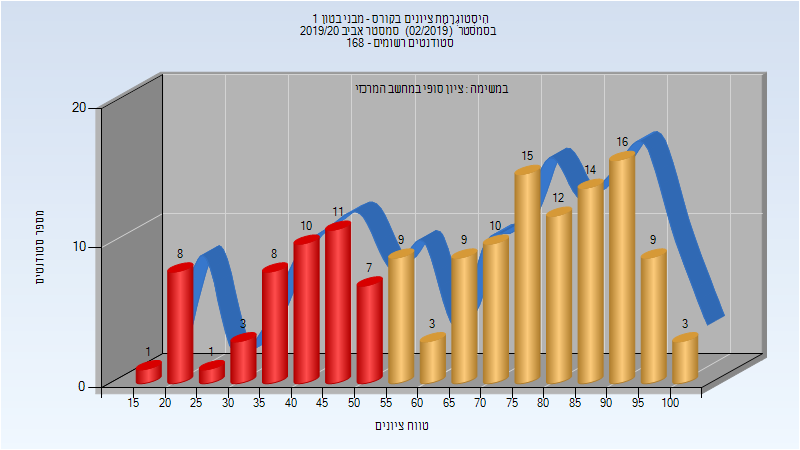
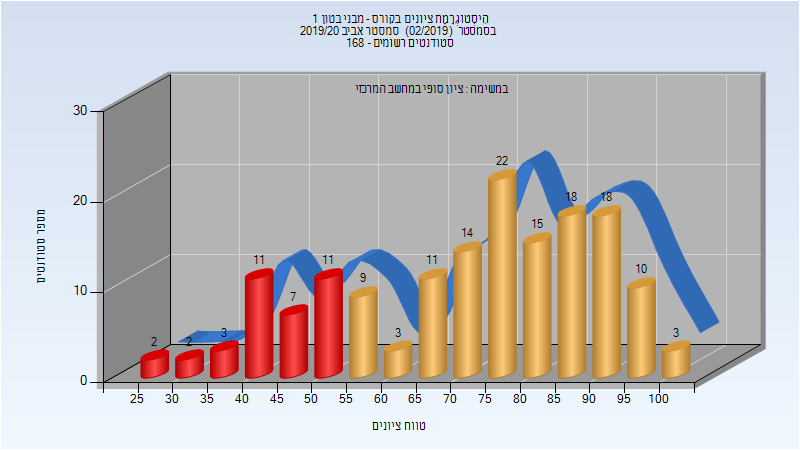
Deploy michael-maltsev/technion-histograms to github.com/michael-maltsev/technion-histograms.git:gh-pages

diff --git a/014005/index.html b/014005/index.html
@@ -530,5 +530,80 @@
 </tr>
 </tbody>
 </table>
+<h2>קיץ 2020</h2>
+<table>
+<thead>
+<tr>
+<th>איש סגל</th>
+<th>תפקיד</th>
+</tr>
+</thead>
+<tbody>
+<tr>
+<td>נחום שי</td>
+<td>מרצה - אחראי מקצוע</td>
+</tr>
+<tr>
+<td>שביט שרית</td>
+<td>סגל מנהלי - עם הרשאות מרצה אחראי</td>
+</tr>
+<tr>
+<td>צאצאשוילי תמי</td>
+<td>סגל מנהלי - עם הרשאות מרצה אחראי</td>
+</tr>
+</tbody>
+</table>
+<h3>סופי מועד א'</h3>
+<p><img src="201903/Final_A.png" alt="201903 Final_A" /></p>
+<table>
+<thead>
+<tr>
+<th>סטודנטים</th>
+<th>עברו/נכשלו</th>
+<th>אחוז עוברים</th>
+<th>ציון מינימלי</th>
+<th>ציון מקסימלי</th>
+<th>ממוצע</th>
+<th>חציון</th>
+</tr>
+</thead>
+<tbody>
+<tr>
+<td>40</td>
+<td>37/3</td>
+<td>92</td>
+<td>37</td>
+<td>100</td>
+<td>84.974</td>
+<td>89.3335</td>
+</tr>
+</tbody>
+</table>
+<h3>סופי</h3>
+<p><img src="201903/Finals.png" alt="201903 Finals" /></p>
+<table>
+<thead>
+<tr>
+<th>סטודנטים</th>
+<th>עברו/נכשלו</th>
+<th>אחוז עוברים</th>
+<th>ציון מינימלי</th>
+<th>ציון מקסימלי</th>
+<th>ממוצע</th>
+<th>חציון</th>
+</tr>
+</thead>
+<tbody>
+<tr>
+<td>40</td>
+<td>37/3</td>
+<td>92</td>
+<td>37</td>
+<td>100</td>
+<td>85.025</td>
+<td>89</td>
+</tr>
+</tbody>
+</table>
   </body>
 </html>

diff --git a/014153/index.html b/014153/index.html
@@ -339,6 +339,32 @@
 </tr>
 </tbody>
 </table>
+<h3>סופי מועד ב'</h3>
+<p><img src="201902/Final_B.png" alt="201902 Final_B" /></p>
+<table>
+<thead>
+<tr>
+<th>סטודנטים</th>
+<th>עברו/נכשלו</th>
+<th>אחוז עוברים</th>
+<th>ציון מינימלי</th>
+<th>ציון מקסימלי</th>
+<th>ממוצע</th>
+<th>חציון</th>
+</tr>
+</thead>
+<tbody>
+<tr>
+<td>72</td>
+<td>37/35</td>
+<td>51</td>
+<td>25</td>
+<td>95</td>
+<td>59.472</td>
+<td>56</td>
+</tr>
+</tbody>
+</table>
 <h3>סופי</h3>
 <p><img src="201902/Finals.png" alt="201902 Finals" /></p>
 <table>
@@ -355,13 +381,13 @@
 </thead>
 <tbody>
 <tr>
-<td>149</td>
-<td>100/49</td>
-<td>67</td>
-<td>19</td>
+<td>159</td>
+<td>123/36</td>
+<td>77</td>
+<td>25</td>
 <td>100</td>
-<td>66.383</td>
-<td>72</td>
+<td>71.868</td>
+<td>75</td>
 </tr>
 </tbody>
 </table>

diff --git a/014213/index.html b/014213/index.html
@@ -361,6 +361,32 @@
 </tr>
 </tbody>
 </table>
+<h3>סופי מועד ב'</h3>
+<p><img src="201902/Final_B.png" alt="201902 Final_B" /></p>
+<table>
+<thead>
+<tr>
+<th>סטודנטים</th>
+<th>עברו/נכשלו</th>
+<th>אחוז עוברים</th>
+<th>ציון מינימלי</th>
+<th>ציון מקסימלי</th>
+<th>ממוצע</th>
+<th>חציון</th>
+</tr>
+</thead>
+<tbody>
+<tr>
+<td>74</td>
+<td>69/5</td>
+<td>93</td>
+<td>43</td>
+<td>95</td>
+<td>73.568</td>
+<td>76</td>
+</tr>
+</tbody>
+</table>
 <h3>סופי</h3>
 <p><img src="201902/Finals.png" alt="201902 Finals" /></p>
 <table>
@@ -377,13 +403,13 @@
 </thead>
 <tbody>
 <tr>
-<td>146</td>
-<td>127/19</td>
-<td>87</td>
-<td>23</td>
+<td>186</td>
+<td>181/5</td>
+<td>97</td>
+<td>43</td>
 <td>100</td>
-<td>69.884</td>
-<td>70.5</td>
+<td>74.349</td>
+<td>75</td>
 </tr>
 </tbody>
 </table>

diff --git a/014841/index.html b/014841/index.html
@@ -1193,7 +1193,7 @@
 <td>91</td>
 <td>27</td>
 <td>100</td>
-<td>82.629</td>
+<td>82.663</td>
 <td>86</td>
 </tr>
 </tbody>

diff --git a/014005/README.md b/014005/README.md
@@ -164,3 +164,27 @@
 | ---- | ---- | ---- | ---- | ---- | ---- | ---- |
 | 43 | 41/2 | 95 | 52 | 96 | 84.233 | 86 |
 
+## קיץ 2020
+
+| איש סגל | תפקיד |
+| ---- | ---- |
+| נחום שי | מרצה - אחראי מקצוע |
+| שביט שרית | סגל מנהלי - עם הרשאות מרצה אחראי |
+| צאצאשוילי תמי | סגל מנהלי - עם הרשאות מרצה אחראי |
+
+### סופי מועד א'
+
+![201903 Final_A](201903/Final_A.png)
+
+| סטודנטים | עברו/נכשלו | אחוז עוברים | ציון מינימלי | ציון מקסימלי | ממוצע | חציון |
+| ---- | ---- | ---- | ---- | ---- | ---- | ---- |
+| 40 | 37/3 | 92 | 37 | 100 | 84.974 | 89.3335 |
+
+### סופי
+
+![201903 Finals](201903/Finals.png)
+
+| סטודנטים | עברו/נכשלו | אחוז עוברים | ציון מינימלי | ציון מקסימלי | ממוצע | חציון |
+| ---- | ---- | ---- | ---- | ---- | ---- | ---- |
+| 40 | 37/3 | 92 | 37 | 100 | 85.025 | 89 |
+

diff --git a/014213/README.md b/014213/README.md
@@ -109,11 +109,19 @@
 | ---- | ---- | ---- | ---- | ---- | ---- | ---- |
 | 146 | 117/29 | 80 | 22.586 | 100 | 69.815 | 70.6215 |
 
+### סופי מועד ב'
+
+![201902 Final_B](201902/Final_B.png)
+
+| סטודנטים | עברו/נכשלו | אחוז עוברים | ציון מינימלי | ציון מקסימלי | ממוצע | חציון |
+| ---- | ---- | ---- | ---- | ---- | ---- | ---- |
+| 74 | 69/5 | 93 | 43 | 95 | 73.568 | 76 |
+
 ### סופי
 
 ![201902 Finals](201902/Finals.png)
 
 | סטודנטים | עברו/נכשלו | אחוז עוברים | ציון מינימלי | ציון מקסימלי | ממוצע | חציון |
 | ---- | ---- | ---- | ---- | ---- | ---- | ---- |
-| 146 | 127/19 | 87 | 23 | 100 | 69.884 | 70.5 |
+| 186 | 181/5 | 97 | 43 | 100 | 74.349 | 75 |
 

diff --git a/014153/README.md b/014153/README.md
@@ -102,11 +102,19 @@
 | ---- | ---- | ---- | ---- | ---- | ---- | ---- |
 | 149 | 98/51 | 66 | 19 | 100 | 65.389 | 71 |
 
+### סופי מועד ב'
+
+![201902 Final_B](201902/Final_B.png)
+
+| סטודנטים | עברו/נכשלו | אחוז עוברים | ציון מינימלי | ציון מקסימלי | ממוצע | חציון |
+| ---- | ---- | ---- | ---- | ---- | ---- | ---- |
+| 72 | 37/35 | 51 | 25 | 95 | 59.472 | 56 |
+
 ### סופי
 
 ![201902 Finals](201902/Finals.png)
 
 | סטודנטים | עברו/נכשלו | אחוז עוברים | ציון מינימלי | ציון מקסימלי | ממוצע | חציון |
 | ---- | ---- | ---- | ---- | ---- | ---- | ---- |
-| 149 | 100/49 | 67 | 19 | 100 | 66.383 | 72 |
+| 159 | 123/36 | 77 | 25 | 100 | 71.868 | 75 |
 

diff --git a/014841/README.md b/014841/README.md
@@ -353,5 +353,5 @@
 
 | סטודנטים | עברו/נכשלו | אחוז עוברים | ציון מינימלי | ציון מקסימלי | ממוצע | חציון |
 | ---- | ---- | ---- | ---- | ---- | ---- | ---- |
-| 89 | 81/8 | 91 | 27 | 100 | 82.629 | 86 |
+| 89 | 81/8 | 91 | 27 | 100 | 82.663 | 86 |
 
